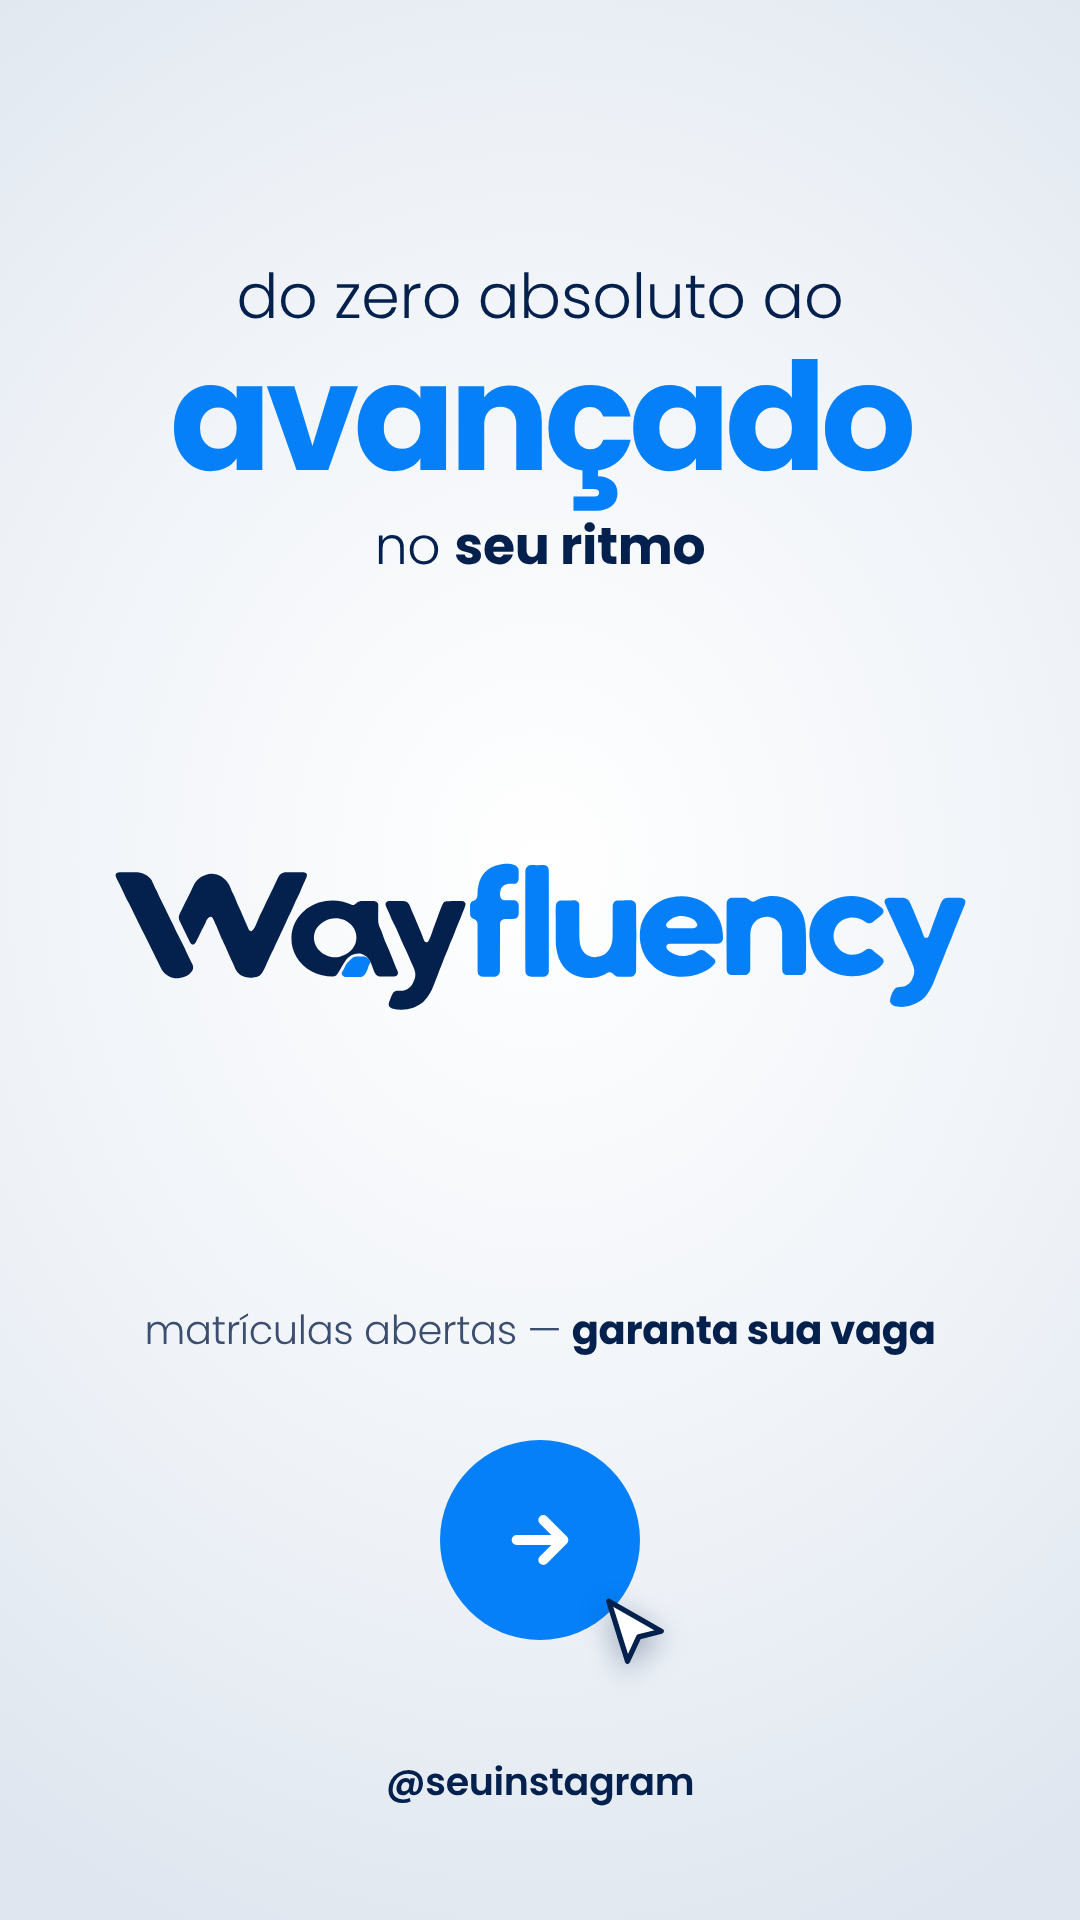
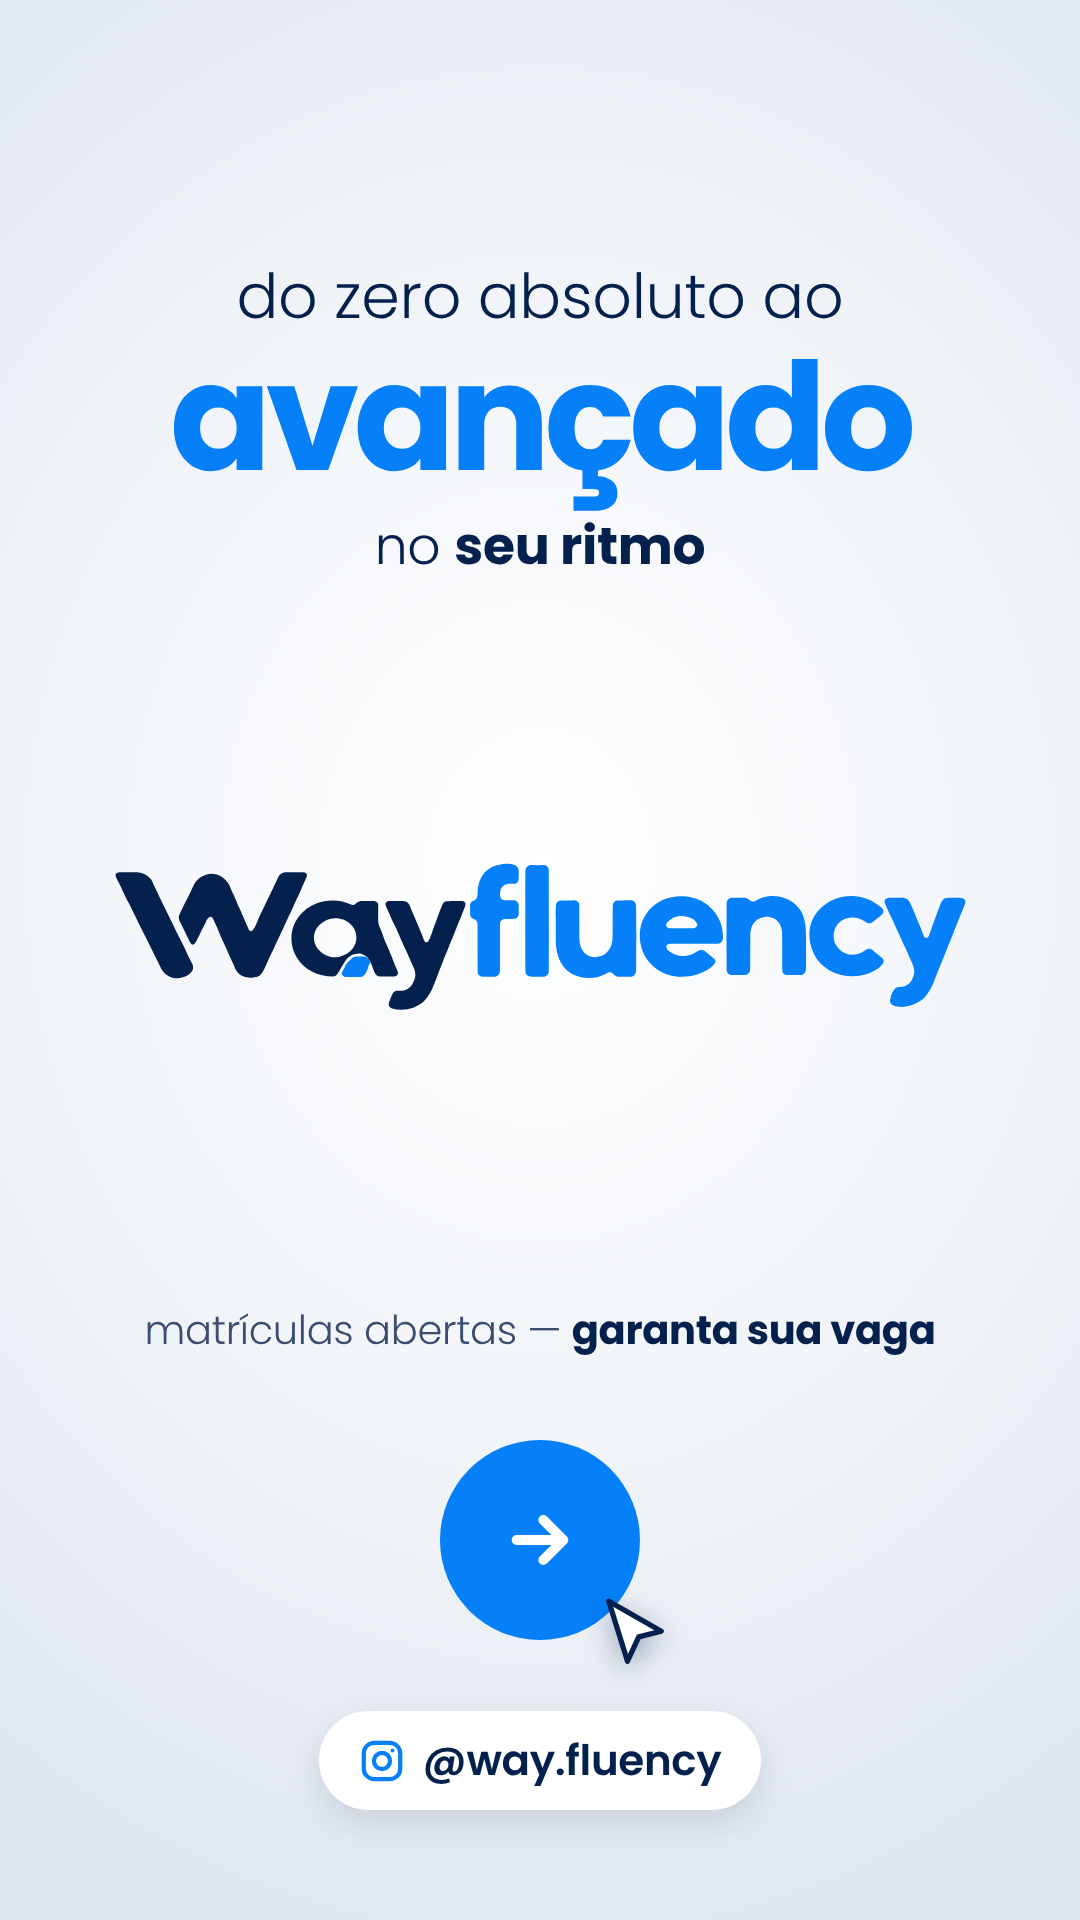
Storyboard: add @way.fluency Instagram handle to closing scene
Claude-Session: https://claude.ai/code/session_01RMhrmHK1fNyWJa9GvddMtA

Changed region(s): [[0.275, 0.9062, 0.7028, 0.9688]]

diff --git a/storyboard/cenas.html b/storyboard/cenas.html
@@ -196,7 +196,7 @@ svg{display:block}
     <div class="orb" style="width:200px;height:200px"><svg width="80" height="80" viewBox="0 0 24 24" fill="none" stroke="#fff" stroke-width="3" stroke-linecap="round" stroke-linejoin="round"><path d="M5 12h14M13 6l6 6-6 6"/></svg></div>
   </div>
   <svg class="abs" style="left:590px;top:1590px;filter:drop-shadow(0 8px 14px rgba(4,32,76,.35))" width="90" height="90" viewBox="0 0 24 24"><path d="M5 3l14 8-6 1.5L10 19z" fill="#fff" stroke="#04204C" stroke-width="1.4" stroke-linejoin="round"/></svg>
-  <div class="abs" style="bottom:110px;width:100%;text-align:center;font-weight:600;font-size:38px">@seuinstagram</div>
+  <div class="abs" style="bottom:110px;width:100%;display:flex;justify-content:center"><div class="pill" style="background:#fff;padding:18px 40px;font-weight:600;font-size:42px;box-shadow:0 14px 34px rgba(4,32,76,.12)"><svg width="46" height="46" viewBox="0 0 24 24" fill="none" stroke="#0580F8" stroke-width="2.2" stroke-linecap="round" stroke-linejoin="round"><rect x="2.5" y="2.5" width="19" height="19" rx="5.5"/><circle cx="12" cy="12" r="4.2"/><circle cx="17.5" cy="6.5" r="1" fill="#0580F8" stroke="none"/></svg>@way.fluency</div></div>
 </section>
 
 </body>
